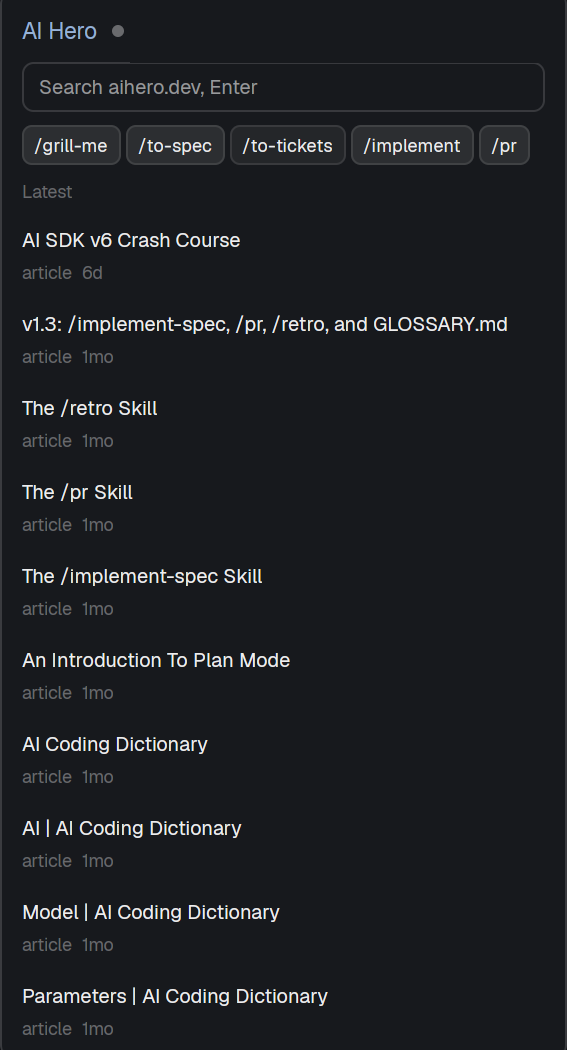
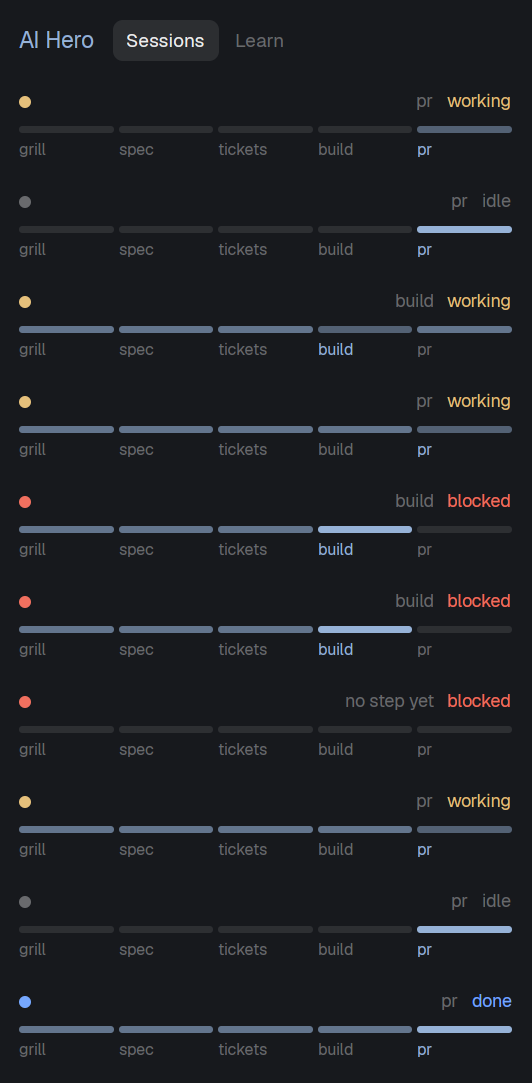
feat: track which skill-chain step each session is on, from its transcript

diff --git a/mods/hero/main.js b/mods/hero/main.js
@@ -1,12 +1,15 @@
-// AI Hero beside your agents: Matt Pocock's skill chain as buttons that type into the
-// focused agent, aihero.dev's feeds and search as a list, and any page opened as markdown
-// that can be handed to the agent. One mod: the panel, and (given a url prop) the reader.
+// AI Hero beside your agents: which step of Matt Pocock's chain (grill, spec, tickets, build, pr)
+// each session is on, read from its Claude Code transcript; plus aihero.dev's feed and search,
+// with any page opened as markdown that can be handed to an agent. One mod: the panel, and
+// (given a url prop) the reader.
 import { View, div } from "gpui-kit";
 import { v_flex, h_flex, InputState, Input, TextView } from "gpui-base";
-import { agents, closeOverlay, hc, notify, openOverlay, props, run, theme } from "herdr";
-import { BASE, CHAIN, HEADERS, ago, mdUrl, parseRss, parseSearch, stripFrontMatter } from "./feed.js";
+import { agents, closeOverlay, exec, hc, notify, openOverlay, panes, props, run, spaces, theme } from "herdr";
+import { BASE, HEADERS, STEPS, ago, mdUrl, parseRss, parseSearch, progress, stripFrontMatter, transcriptCommand } from "./feed.js";
 
-const REFRESH_MS = 30 * 60 * 1000;
+const FEED_MS = 30 * 60 * 1000;
+const TRACK_MS = 20 * 1000;
+const RECHECK_MS = 90 * 1000;
 
 const get = async (url) => {
   const r = await fetch(url, { headers: HEADERS });
@@ -14,7 +17,6 @@ const get = async (url) => {
   return r;
 };
 
-// The agent that has the keyboard, else null. Chips and hand-offs go to this one.
 const target = () => agents().find((a) => a.focused) ?? null;
 
 async function typeInto(agent, text) {
@@ -22,20 +24,61 @@ async function typeInto(agent, text) {
   if (r.code !== 0) throw new Error(`${agent.title || agent.address} is ${agent.status}, not idle: nothing typed`);
 }
 
+// Where an agent's transcript lives: its folder, on its space's machine.
+function whereIs(agent) {
+  const pane = panes().find((p) => p.pane === agent.pane);
+  const space = spaces().find((s) => s.id === agent.space);
+  return { cwd: pane && pane.cwd, machine: space ? space.machine : null };
+}
+
 export default class Hero extends View {
   init(_props, cx) {
     this.reader = props()?.url ? { url: props().url, title: props().title, body: null, error: null } : null;
+    if (this.reader) return this.openReader(cx);
+    this.tab = "sessions";
     this.feed = [];
     this.hits = null;
     this.error = null;
     this.query = "";
-    this.sent = null;
-    if (this.reader) return this.openReader(cx);
+    this.steps = {};
+    this.checked = {};
     this.input = InputState.new({ placeholder: "Search aihero.dev, Enter" });
     this.input.on("change", (_e, cx) => { this.query = this.input.value(); cx.notify(); });
     this.input.on("submit", (_e, cx) => this.search(cx));
     this.refresh(cx);
-    cx.timer.every(REFRESH_MS, (cx) => this.refresh(cx));
+    this.track(cx);
+    cx.timer.every(FEED_MS, (cx) => this.refresh(cx));
+    cx.timer.every(TRACK_MS, (cx) => this.track(cx));
+  }
+
+  // Re-read an agent's transcript when its status changed or it has not been read for a while.
+  track(cx) {
+    const now = Date.now();
+    const due = agents().filter((a) => {
+      const c = this.checked[a.address];
+      return !c || c.status !== a.status || now - c.at > RECHECK_MS;
+    });
+    if (!due.length) return;
+    due.forEach((a) => { this.checked[a.address] = { status: a.status, at: now }; });
+    // Agents in one folder on one machine share a transcript folder: read it once.
+    const reads = new Map();
+    due.forEach((a) => { const w = whereIs(a); const k = `${w.machine}|${w.cwd}`; reads.set(k, [...(reads.get(k) ?? []), a]); });
+    cx.spawn(async (cx) => {
+      await Promise.all([...reads.values()].map(async (group) => {
+        const { cwd, machine } = whereIs(group[0]);
+        let result;
+        try {
+          if (!cwd) throw new Error("no folder for this pane");
+          const [program, args] = transcriptCommand(cwd);
+          const r = await exec(program, args, { on: machine, timeout: 60000 });
+          if (r.code !== 0) throw new Error((r.stderr || `exit ${r.code}`).trim().split("\n")[0]);
+          const names = r.stdout.split("\n").map((l) => l.trim()).filter(Boolean);
+          result = names[0] === "#none" ? { seen: new Set(), current: -1, note: "no transcript" } : progress(names);
+        } catch (e) { result = { seen: new Set(), current: -1, error: String(e.message ?? e) }; }
+        group.forEach((a) => { this.steps[a.address] = result; });
+      }));
+      cx.notify();
+    });
   }
 
   refresh(cx) {
@@ -71,14 +114,11 @@ export default class Hero extends View {
     });
   }
 
-  chain(name, cx) {
+  // A pip types its command into that session, only when it is idle.
+  send(agent, text, cx) {
     cx.spawn(async (cx) => {
-      const agent = target();
-      try {
-        if (agent) await typeInto(agent, `/${name}`);
-        else run("tab.new", { name: `/${name}`, argv: ["claude"], task: `/${name}` });
-        this.sent = name;
-      } catch (e) { notify({ title: "AI Hero", body: String(e.message ?? e), level: "error" }); }
+      try { await typeInto(agent, text); this.checked[agent.address] = null; this.track(cx); }
+      catch (e) { notify({ title: "AI Hero", body: String(e.message ?? e), level: "error" }); }
       cx.notify();
     });
   }
@@ -114,24 +154,41 @@ export default class Hero extends View {
           : TextView.markdown("hero-md", r.body).selectable(true)));
   }
 
-  render(cx) {
-    const t = theme();
-    if (this.reader) return this.renderReader(t);
-    const agent = target();
+  session(a, t) {
+    const st = this.steps[a.address];
+    const color = ({ working: t.working, blocked: t.blocked, done: t.done, idle: t.idle })[a.status] ?? t.idle;
+    const label = !st ? "reading…" : st.error ? "no read" : st.current < 0 ? "no step yet" : STEPS[st.current].label;
+    return v_flex().id(`s-${a.address}`).px(12).py(7).gap(5).hover((s) => s.bg(t.hover))
+      .child(h_flex().gap(7).items_center().cursor_pointer().on_click(() => run("agent.focus", { terminal: a.address }))
+        .child(div().w(7).h(7).rounded(4).bg(color))
+        .child(div().flex_1().min_w(0).truncate().text_color(a.focused ? t.accent : t.foreground).child(a.space_name))
+        .child(div().text_size(10.5).text_color(st && st.error ? t.blocked : t.dim).child(label))
+        .child(div().text_size(10.5).text_color(color).child(a.status)))
+      .child(h_flex().gap(3).children(STEPS.map((s, i) => {
+        const done = st && st.seen.has(i);
+        const now = st && st.current === i;
+        const bar = div().h(4).rounded(2).bg(now ? t.accent : done ? t.accent : t.border).opacity(now ? 1 : done ? 0.6 : 1);
+        return v_flex().id(`p-${a.address}-${s.id}`).flex_1().gap(2).cursor_pointer().on_click((_e, cx) => this.send(a, `/${s.cmd}`, cx))
+          .child(now && a.status === "working" ? bar.loop("opacity", { from: 0.45, to: 1, period: 1400 }) : bar)
+          .child(div().text_size(9.5).text_color(now ? t.accent : t.dim).child(s.label));
+      })));
+  }
+
+  renderSessions(t) {
+    const list = agents();
+    const bad = list.filter((a) => this.steps[a.address]?.error).length;
+    return v_flex().id("sessions").flex_1().min_h(0).overflow_y_scrollbar()
+      .when(!list.length, (el) => el.child(div().px(12).py(8).text_color(t.dim).child("No agents running.")))
+      .children(list.map((a) => this.session(a, t)))
+      .when(bad > 0, (el) => el.child(div().px(12).py(6).text_size(10.5).text_color(t.blocked)
+        .child(`${bad} session${bad > 1 ? "s" : ""} could not be read: ${list.map((a) => this.steps[a.address]?.error).find(Boolean)}`)));
+  }
+
+  renderLearn(t) {
     const now = Date.now();
     const list = this.hits ?? this.feed;
-    const dot = agent ? ({ working: t.working, blocked: t.blocked, done: t.done, idle: t.idle })[agent.status] ?? t.idle : t.dim;
-    return v_flex().size_full().bg(t.surface).text_color(t.foreground).text_size(12)
-      .child(h_flex().px(12).pt(12).pb(8).gap(8).items_center()
-        .child(div().font_semibold().text_size(13.5).text_color(t.accent).child("AI Hero"))
-        .child(div().w(7).h(7).rounded(4).bg(dot))
-        .child(div().flex_1().min_w(0).truncate().text_size(11).text_color(t.dim).child(agent ? (agent.title || agent.program.name) : "no focused agent: chips start Claude")))
+    return v_flex().flex_1().min_h(0)
       .child(div().px(12).pb(8).child(Input.new(this.input).h(30).px(9).rounded(7).border_1().border_color(t.input).bg(t.background).text_size(12)))
-      .child(h_flex().px(12).pb(8).gap(3).flex_wrap().children(CHAIN.map((name) =>
-        h_flex().id(`chain-${name}`).h(24).px(6).items_center().rounded(6).text_size(11)
-          .border_1().border_color(this.sent === name ? t.accent : t.border).bg(t.raised)
-          .text_color(this.sent === name ? t.accent : t.foreground).cursor_pointer()
-          .hover((s) => s.bg(t.hover)).on_click((_e, cx) => this.chain(name, cx)).child(`/${name}`))))
       .when(this.error != null, (el) => el.child(div().px(12).pb(6).text_color(t.blocked).child(this.error)))
       .child(div().px(12).pb(4).text_size(10.5).text_color(t.dim).child(this.hits ? `${this.hits.length} results` : "Latest"))
       .child(v_flex().id("hero-list").flex_1().min_h(0).overflow_y_scrollbar().children(list.map((i, n) =>
@@ -139,5 +196,18 @@ export default class Hero extends View {
           .on_click(() => openOverlay({ mod: "hero", kind: "dialog", width: 720, height: 560, props: { url: i.url, title: i.title } }))
           .child(div().text_color(t.foreground).child(i.title))
           .child(h_flex().gap(6).text_size(10.5).text_color(t.dim).child(i.kind).child(ago(i.date, now))))));
+  }
+
+  render(cx) {
+    const t = theme();
+    if (this.reader) return this.renderReader(t);
+    const tab = (id, text) => div().id(`tab-${id}`).px(8).py(3).rounded(6).text_size(11.5).cursor_pointer()
+      .bg(this.tab === id ? t.raised : t.surface).text_color(this.tab === id ? t.foreground : t.dim)
+      .on_click((_e, cx) => { this.tab = id; cx.notify(); }).child(text);
+    return v_flex().size_full().bg(t.surface).text_color(t.foreground).text_size(12)
+      .child(h_flex().px(12).pt(12).pb(8).gap(10).items_center()
+        .child(div().font_semibold().text_size(13.5).text_color(t.accent).child("AI Hero"))
+        .child(h_flex().gap(2).child(tab("sessions", "Sessions")).child(tab("learn", "Learn"))))
+      .child(this.tab === "sessions" ? this.renderSessions(t) : this.renderLearn(t));
   }
 }

diff --git a/mods/hero/feed.js b/mods/hero/feed.js
@@ -1,6 +1,34 @@
 export const BASE = "https://www.aihero.dev";
 export const HEADERS = { "User-Agent": "herdr-hero-mod/0.1 (+https://herdr.dev/mods)", Accept: "*/*" };
-export const CHAIN = ["grill-me", "to-spec", "to-tickets", "implement", "pr"];
+// Matt Pocock's chain. `cmd` is what a pip types; `names` are every command or skill that counts as that step.
+export const STEPS = [
+  { id: "grill", label: "grill", cmd: "grill-me", names: ["grill-me", "grilling", "grill-with-docs"] },
+  { id: "spec", label: "spec", cmd: "to-spec", names: ["to-spec"] },
+  { id: "tickets", label: "tickets", cmd: "to-tickets", names: ["to-tickets"] },
+  { id: "build", label: "build", cmd: "implement", names: ["implement", "implement-spec", "tdd"] },
+  { id: "pr", label: "pr", cmd: "pr", names: ["pr"] },
+];
+
+// Command and skill names in transcript order -> { seen: Set of step indexes, current: index of the last one, -1 for none }.
+// A plugin prefix ("mattpocock-skills:to-spec") is ignored.
+export function progress(names) {
+  const seen = new Set();
+  let current = -1;
+  for (const raw of names) {
+    const name = raw.includes(":") ? raw.split(":").pop() : raw;
+    const i = STEPS.findIndex((s) => s.names.includes(name));
+    if (i >= 0) { seen.add(i); current = i; }
+  }
+  return { seen, current };
+}
+
+// Run on the agent's machine with its folder as $1: prints the names, newest transcript only.
+export const TRANSCRIPT_SCRIPT = [
+  'd="$HOME/.claude/projects/$(printf %s "$1" | sed "s/[^A-Za-z0-9]/-/g")"',
+  'f=$(ls -t "$d"/*.jsonl 2>/dev/null | head -1)',
+  '[ -n "$f" ] || { echo "#none"; exit 0; }',
+  `grep -o -E '<command-name>/[A-Za-z:-]+</command-name>|"skill":"[A-Za-z:-]+"' "$f" | sed -E 's#<command-name>/##; s#</command-name>##; s#"skill":"##; s#"$##'`,
+].join("\n");
 
 const decode = (s) => s.replace(/<!\[CDATA\[([\s\S]*?)\]\]>/g, "$1").replace(/&amp;/g, "&").replace(/&lt;/g, "<").replace(/&gt;/g, ">").replace(/&quot;/g, '"').replace(/&#39;/g, "'").trim();
 const tag = (item, name) => { const m = new RegExp(`<${name}>([\\s\\S]*?)</${name}>`).exec(item); return m ? decode(m[1]) : ""; };
@@ -28,3 +56,19 @@ export function ago(ms, now) {
 
 // The .md twins start with a YAML front matter block; the reader shows only the body.
 export const stripFrontMatter = (md) => md.replace(/^---\r?\n[\s\S]*?\r?\n---\r?\n/, "");
+
+const PS_SCRIPT = (cwd) => [
+  `$d = Join-Path $env:USERPROFILE ('.claude\\projects\\' + ('${cwd.replace(/'/g, "''")}' -replace '[^A-Za-z0-9]','-'))`,
+  "$f = Get-ChildItem -LiteralPath $d -Filter *.jsonl -ErrorAction SilentlyContinue | Sort-Object LastWriteTime -Descending | Select-Object -First 1",
+  "if (-not $f) { '#none'; exit 0 }",
+  "$r = [regex]'<command-name>/([A-Za-z:-]+)</command-name>|\"skill\":\"([A-Za-z:-]+)\"'",
+  "foreach ($l in [IO.File]::ReadLines($f.FullName)) { foreach ($m in $r.Matches($l)) { if ($m.Groups[1].Success) { $m.Groups[1].Value } else { $m.Groups[2].Value } } }",
+].join("; ");
+
+// The program and arguments that print an agent's transcript names on its machine. A drive-letter folder
+// means a Windows machine (PowerShell); anything else is POSIX (sh).
+export function transcriptCommand(cwd) {
+  return /^[A-Za-z]:[\\/]/.test(cwd)
+    ? ["powershell", ["-NoProfile", "-Command", PS_SCRIPT(cwd)]]
+    : ["sh", ["-c", TRANSCRIPT_SCRIPT, "sh", cwd]];
+}

diff --git a/RECIPE.md b/RECIPE.md
@@ -1,30 +1,30 @@
 # AI Hero
 
-A 320 px panel docked on the right that puts [aihero.dev](https://www.aihero.dev) (Matt Pocock's AI engineering site) next to your agents. Five buttons for the skill chain type slash commands into the agent you are working with, the site's latest posts and skills changelog are a list, and any item opens as markdown that you can hand to that agent in one click.
+A 320 px panel docked on the right that shows **which step of Matt Pocock's skill chain each of your agent sessions is on**: grill, spec, tickets, build, pr. Every session is a row with five bars under it; the bar for the step it last used is lit, earlier steps it went through are dimmer. A second tab, Learn, lists [aihero.dev](https://www.aihero.dev)'s latest posts, searches the site, and opens any page as markdown you can hand to an agent.
 
 ![AI Hero](preview.png)
 
 ## What you see
 
-Top to bottom, on the theme's `surface` color, 12 px text:
+On the theme's `surface` color, 12 px text, top to bottom:
 
-1. **Header**, 12 px padding: `AI Hero` (13.5 px, semibold, `accent`), a 7 px round dot in the focused agent's status color (`working`, `blocked`, `done`, `idle` from the theme; `dim` when no agent has focus), then the agent's terminal title (11 px, `dim`, truncates). With no focused agent the text reads `no focused agent: chips start Claude`.
-2. **Search field**, 30 px high, 7 px radius, `input` border, `background` fill, placeholder `Search aihero.dev, Enter`.
-3. **Skill chain**: five chips, 24 px high, 6 px radius, 11 px text, `raised` fill, `border` outline: `/grill-me`, `/to-spec`, `/to-tickets`, `/implement`, `/pr`. They wrap if the panel is narrow.
-4. **Caption**, 10.5 px `dim`: `Latest`, or `<n> results` after a search.
-5. **List**, the rest of the height, scrolling. Each row has 12 px side padding, 6 px vertical: the title (`foreground`) and under it, 10.5 px `dim`, the kind (`article`, `skills`, or the search hit type such as `skill`) and its age (`today`, `6d`, `1mo`, `1y`; none for search hits). `hover` background on hover.
-6. A red (`blocked`) error line above the caption when a fetch fails.
-
-Clicking a row opens a 720 × 560 dialog (`popover` background, 16 px padding): the title, a `Hand to agent` primary button and a `Close` button, then the page's markdown, scrolling and selectable.
+1. **Header**, 12 px padding: `AI Hero` (13.5 px, semibold, `accent`) and two tabs, `Sessions` and `Learn` (11.5 px; the selected one has a `raised` fill and `foreground` text, the other `dim`).
+2. **Sessions tab**, scrolling, one row per entry of `agents()` in that order, 12 px side padding, 7 px vertical, `hover` background:
+   - a line with a 7 px round dot in the agent's status color (`working`, `blocked`, `done`, `idle` from the theme), the space name (`foreground`, or `accent` when that agent has focus), then on the right the step label (10.5 px, `dim`: `grill`, `spec`, `tickets`, `build`, `pr`, `no step yet`, `reading…`, or `no read` in `blocked` red) and the status word in its status color;
+   - under it five equal bars, 4 px high, 2 px radius, 3 px gap, each with its label below (9.5 px): `grill`, `spec`, `tickets`, `build`, `pr`. Bar colors: the current step `accent` at full strength; a step seen earlier `accent` at 60 percent; a step not seen `border`. The current step's label is `accent`, the others `dim`.
+   - If any session could not be read, a 10.5 px `blocked` line at the bottom says how many and the first error.
+3. **Learn tab:** a 30 px search field (`Search aihero.dev, Enter`), a caption (`Latest` or `<n> results`, 10.5 px `dim`), then a scrolling list: title, and under it, 10.5 px `dim`, the kind (`article`, `skills`, or the search hit's type) and age (`today`, `6d`, `1mo`, `1y`). A red line above the caption shows a failed fetch.
+4. **Reader dialog**, 720 × 560, `popover` background, 16 px padding: the title, a `Hand to agent` primary button, a `Close` button, then the page's markdown (scrolling, selectable).
 
 ## How it behaves
 
-- **Feed:** loads at start and every 30 minutes. Articles and the skills changelog are merged, sorted newest first, deduplicated by title, capped at 60.
-- **Search:** typing only edits the field; Enter runs the search. Under 2 characters clears it back to `Latest`.
-- **Chips:** click types `/<name>` and Enter into the focused agent, only when that agent is `idle`. If it is `working`, `blocked` or `done`, nothing is typed and an error toast says so. With no focused agent, a new tab named `/<name>` starts `claude` with that first message. The last chip clicked gets an `accent` outline until the panel reloads.
-- **Hand to agent:** types `Read <page-url>.md and apply what it teaches to this repo.` into the focused agent (same idle-only rule), then closes the dialog. With no focused agent it shows an error toast and stays open.
-- **Agent status in the header dot** follows `agents()` live; nothing polls it.
-- No keys are bound. The panel is opened by its dock (`place: right`) or the palette.
+- **Which step:** a session's step comes from its Claude Code transcript, the newest `*.jsonl` in `~/.claude/projects/<folder with every non-alphanumeric character turned into "-">/` on the agent's machine. In file order, every `<command-name>/NAME</command-name>` (a slash command the person typed) and every `"skill":"NAME"` (a skill Claude invoked) counts. A plugin prefix (`orum:to-spec`) is ignored. Names map to steps: `grill` = grill-me, grilling, grill-with-docs; `spec` = to-spec; `tickets` = to-tickets; `build` = implement, implement-spec, tdd; `pr` = pr. The **current** step is the last such name; **seen** steps are all of them. No folder transcript: `no step yet` (none) is shown when no name matches.
+- **When it reads:** at start, then every 20 s it re-reads only agents whose status changed since the last read or whose last read is over 90 s old. Agents on the same machine in the same folder are read once and share the answer (they share a transcript folder, so two agents in one folder show the same step).
+- **Working agents:** the current bar pulses (opacity 0.45 to 1, 1.4 s) natively; nothing redraws on a timer.
+- **Click a row's top line:** `agent.focus` for that agent.
+- **Click a bar:** types `/<command>` and Enter into that session (`/grill-me`, `/to-spec`, `/to-tickets`, `/implement`, `/pr`), only if it is `idle`; otherwise nothing is typed and an error toast says why. Its transcript is re-read right after.
+- **Learn:** the feed loads at start and every 30 minutes (articles and the skills changelog, newest first, no repeated titles, 60 max). Typing edits the field; Enter searches (under 2 characters clears). Clicking a row opens the reader. `Hand to agent` types `Read <page-url>.md and apply what it teaches to this repo.` into the focused agent, only if idle, then closes; with no focused agent it shows an error toast.
+- No keys are bound.
 
 ## Built from
 
@@ -32,39 +32,34 @@ Clicking a row opens a 720 × 560 dialog (`popover` background, 16 px padding): 
 mods/hero/
   mod.json   { "place": "right", "size": 320, "title": "AI Hero" }
   main.js    default class Hero extends View. With props().url it draws the reader, else the panel.
-  feed.js    pure helpers: parseRss, parseSearch, mdUrl, ago, stripFrontMatter, BASE, CHAIN, HEADERS
+  feed.js    pure helpers: STEPS, progress, transcriptCommand, parseRss, parseSearch, mdUrl, ago, stripFrontMatter
+tests/feed.test.mjs   node --test tests/
 ```
 
-- Imports: `View, div` from `gpui-kit`; `v_flex, h_flex, InputState, Input, TextView` from `gpui-base`; `agents, closeOverlay, hc, notify, openOverlay, props, run, theme` from `herdr`.
-- Network (tell the person before installing): `fetch` GET with header `User-Agent: herdr-hero-mod/0.1`, to
-  - `https://www.aihero.dev/rss.xml` (RSS 2.0; items have title, link, pubDate, description; not sorted, so sort by pubDate),
-  - `https://www.aihero.dev/skills/rss.xml` (the skills changelog, same shape),
-  - `https://www.aihero.dev/api/search?q=<query>` returning `{ result: { hits: [{ type, title, url, summary }] } }`,
-  - `<page url>.md` for the reader (every page has a markdown twin; it starts with a `---` YAML front matter block, which `stripFrontMatter` removes).
-  
-  aihero.dev's `robots.txt` allows all of these, and none needs a login. The mod runs no programs except `hc send`; it reads no files.
-- Commands: `hc(["send", <agent address>, <text>, "--if", "idle"])` (exit code non-zero means not typed); `run("tab.new", { name, argv: ["claude"], task })`; `openOverlay({ mod: "hero", kind: "dialog", width: 720, height: 560, props: { url, title } })`; `closeOverlay(props().overlay)`; `notify({ title: "AI Hero", body, level: "error" })`.
-- The focused agent is `agents().find((a) => a.focused)`.
-- The input uses `InputState.new({ placeholder })` in `init`, `on("change")` to keep the text and `on("submit")` to search.
-- The five chain names are Matt Pocock's skills (github.com/mattpocock/skills, MIT): grill-me, to-spec, to-tickets, implement, pr. The agent must have those skills installed (`claude plugin install mattpocock-skills@claude-plugins-official`); the mod does not install them.
+- Imports: `View, div` from `gpui-kit`; `v_flex, h_flex, InputState, Input, TextView` from `gpui-base`; `agents, closeOverlay, exec, hc, notify, openOverlay, panes, props, run, spaces, theme` from `herdr`.
+- **Programs it runs (tell the person before installing):** `exec` on each agent's machine (`on: space.machine`, 60 s timeout) of a read-only transcript scan: `sh -c` (grep and sed over the newest transcript) for a POSIX folder, `powershell -NoProfile -Command` (a regex over `[IO.File]::ReadLines`) when the folder starts with a drive letter. It reads those transcript files outside the mod's folder and writes nothing. `hc send <address> <text> --if idle` types into an agent.
+- **Network (GET, header `User-Agent: herdr-hero-mod/0.1`):** `https://www.aihero.dev/rss.xml`, `https://www.aihero.dev/skills/rss.xml` (RSS 2.0: title, link, pubDate, description; unsorted), `https://www.aihero.dev/api/search?q=<query>` (`{ result: { hits: [{ type, title, url, summary }] } }`), and `<page url>.md` (starts with a `---` YAML front matter block, removed before showing). robots.txt allows them; no login.
+- A session's folder is `panes().find(p => p.pane === agent.pane).cwd`, its machine `spaces().find(s => s.id === agent.space).machine`.
+- Other commands: `run("agent.focus", { terminal })`, `openOverlay({ mod: "hero", kind: "dialog", width: 720, height: 560, props: { url, title } })`, `closeOverlay(props().overlay)`, `notify({ title: "AI Hero", body, level: "error" })`.
+- The five steps are Matt Pocock's skills (github.com/mattpocock/skills, MIT). The sessions need them installed (`claude plugin install mattpocock-skills@claude-plugins-official`); the mod does not install them.
 
 ## Watch out
 
-- The dialog opens `mod: "hero"` by name. If the folder is renamed, change that string in `main.js`.
-- `hc send` types and presses Enter; the `--if idle` guard is what stops it typing into a busy agent. Do not drop it.
-- Errors are shown, never hidden: a feed that fails to parse, a non-200 answer or a search reply without `result.hits` shows the message in red and keeps the last good list. There is no fallback source.
-- `/rss.xml` also lists site pages (newsletter, skills landing), and its `kind` is always `article`; only the skills feed is `skills`. Search hit kinds come from the site.
-- `.md` twins load only for aihero.dev page URLs; a search hit of a type with no twin shows the server's error in the dialog.
-- Do not poll faster than 30 minutes; the site is someone's small server.
-- Search does not search as you type: one request per Enter.
-- A `mod.json` with `place: "right"` docks a copy the first time Herdr sees the folder. To try it without docking, copy it to another name with `place: "none"` and open it with `mod.open`.
+- It only understands **Claude Code** sessions; it reads Claude's transcript folder. Other agents show `no step yet`.
+- Two sessions in the same folder cannot be told apart: both show the newest transcript's step.
+- Failures are shown, never hidden: a non-zero exit, a timeout or a missing program shows `no read` and the error line; there is no guess. A read that finds no matching names is `no step yet`, which is a result, not an error.
+- A first read of a big transcript can take tens of seconds on a slow or Windows machine; rows say `reading…` until it lands.
+- `hc send` types and presses Enter; keep `--if idle`.
+- The reader opens `mod: "hero"` by name; if the folder is renamed, change that string.
+- Do not poll the site faster than every 30 minutes.
+- `place: "right"` docks a copy the first time Herdr sees the folder. To try it without docking, copy it to another name with `place: "none"` and open it with `mod.open`.
 
 ## Done when
 
-- `herdr-app check mods/hero` passes and `herdr-app status` shows no errors.
-- The panel lists at least 10 rows within a few seconds, newest first, no repeated titles, with ages like `6d` and `1mo`.
-- Typing `tdd` and pressing Enter shows `<n> results` with `The /tdd Skill` among them.
-- Clicking a row opens the dialog with the page's markdown and no `title:`/`slug:` front matter lines at the top.
-- With an idle agent focused, clicking `/to-spec` types `/to-spec` into it; with a working agent focused it types nothing and shows an error toast.
-- `Hand to agent` types the `Read ….md` sentence into the focused idle agent and closes the dialog.
-- Turning the network off shows a red error line, not an empty list.
+- `herdr-app check mods/hero` passes, `herdr-app status` shows no errors, and `node --test tests/` passes.
+- Within a minute every agent row shows a step or `no step yet`, none stuck on `reading…`.
+- In a session where you typed `/grill-me` then `/to-spec`, the first two bars are lit (the second at full strength) and the label says `spec`; the other three bars are `border` color.
+- Making a session run `/to-tickets` moves its current bar to `tickets` within about 90 s (sooner when its status changes).
+- Clicking the `build` bar of an idle session types `/implement` into it; on a working session it types nothing and shows an error toast.
+- Learn lists at least 10 rows, no repeated titles; searching `tdd` shows `The /tdd Skill`; a row opens the markdown without front matter; `Hand to agent` types its sentence into the focused idle agent.
+- With the network off, Learn shows a red error and Sessions keeps working.
